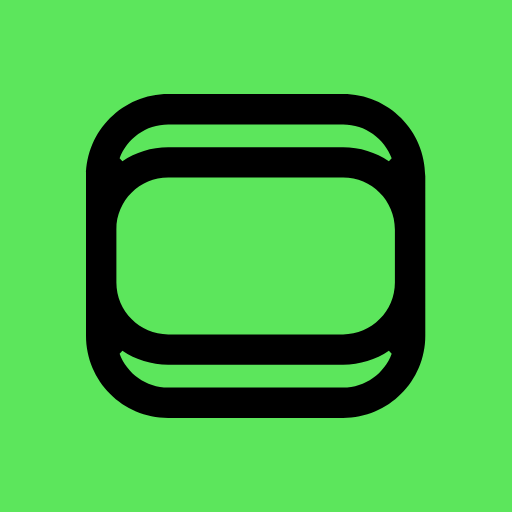
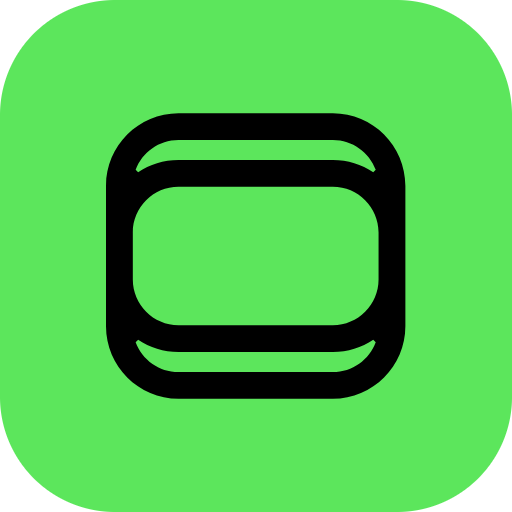
Fix Rive World load performance and polish download page
- Switch RiveCard from intersection-observer auto-load to click-to-play;
  iframes no longer fire on page open, eliminating simultaneous heavy requests
- Update subtitle copy: "Hover to play" → "Click to play"
- Download page: InstallButton always visible, scrolls to instructions when
  native prompt unavailable; remove Open in browser button
- Regenerate PWA icons with rounded corners for cleaner install dialog appearance

diff --git a/src/components/common/RiveCard.tsx b/src/components/common/RiveCard.tsx
@@ -1,12 +1,12 @@
 "use client"
 
-import { useState, useRef, useEffect } from "react"
+import { useState } from "react"
 import { useRouter } from "next/navigation"
 import Link from "next/link"
 import Image from "next/image"
 import { Play, ChevronUp, MessageSquare, Trash2 } from "lucide-react"
 
-type LoadState = "idle" | "preloading" | "loading" | "ready"
+type LoadState = "idle" | "loading" | "ready"
 
 type Props = {
   id:           string
@@ -26,31 +26,9 @@ export function RiveCard({ id, title, riveUrl, voteCount, commentCount, isOwner,
   const router = useRouter()
   const [loadState, setLoadState] = useState<LoadState>("idle")
   const [deleting, setDeleting] = useState(false)
-  const cardRef = useRef<HTMLDivElement>(null)
 
-  useEffect(() => {
-    const el = cardRef.current
-    if (!el) return
-
-    const observer = new IntersectionObserver(
-      ([entry]) => {
-        if (entry.isIntersecting) {
-          setLoadState((prev) => prev === "idle" ? "preloading" : prev)
-          observer.disconnect()
-        }
-      },
-      { rootMargin: "200px" }
-    )
-
-    observer.observe(el)
-    return () => observer.disconnect()
-  }, [])
-
-  function handleMouseEnter() {
-    setLoadState((prev) => {
-      if (prev === "ready") return prev
-      return "loading"
-    })
+  function handleClick() {
+    if (loadState === "idle") setLoadState("loading")
   }
 
   function handleIframeLoad() {
@@ -69,27 +47,26 @@ export function RiveCard({ id, title, riveUrl, voteCount, commentCount, isOwner,
     <div className="rounded-2xl border border-border overflow-hidden bg-white flex flex-col">
       {/* Iframe / placeholder */}
       <div
-        ref={cardRef}
         className="relative aspect-[4/3] bg-mist-grey cursor-crosshair"
-        onMouseEnter={handleMouseEnter}
+        onClick={handleClick}
       >
-        {/* Play icon — shown while idle or preloading */}
-        {(loadState === "idle" || loadState === "preloading") && (
+        {/* Play icon — shown while idle */}
+        {loadState === "idle" && (
           <div className="absolute inset-0 flex items-center justify-center">
-            <div className="flex h-12 w-12 items-center justify-center rounded-full bg-core-black/8 transition-transform group-hover:scale-110">
+            <div className="flex h-12 w-12 items-center justify-center rounded-full bg-core-black/8 transition-transform hover:scale-110">
               <Play size={18} className="text-core-black/30 translate-x-0.5" />
             </div>
           </div>
         )}
 
-        {/* Spinner — shown while loading (hovered but iframe not ready) */}
+        {/* Spinner — shown while iframe is loading */}
         {loadState === "loading" && (
           <div className="absolute inset-0 flex items-center justify-center">
             <div className="h-7 w-7 rounded-full border-2 border-core-black/10 border-t-core-black/40 animate-spin" />
           </div>
         )}
 
-        {/* Iframe — mounted once preloading starts, revealed on ready */}
+        {/* Iframe — mounted on click, revealed when ready */}
         {loadState !== "idle" && (
           <iframe
             src={riveUrl}

diff --git a/src/app/(main)/download/InstallButton.tsx b/src/app/(main)/download/InstallButton.tsx
@@ -12,6 +12,10 @@ export function InstallButton() {
   const [installed, setInstalled] = useState(false)
 
   useEffect(() => {
+    if (window.matchMedia("(display-mode: standalone)").matches) {
+      setInstalled(true)
+      return
+    }
     function onPrompt(e: Event) {
       e.preventDefault()
       setPrompt(e as BeforeInstallPromptEvent)
@@ -29,27 +33,28 @@ export function InstallButton() {
   }, [])
 
   async function handleInstall() {
-    if (!prompt) return
-    await prompt.prompt()
-    const { outcome } = await prompt.userChoice
-    if (outcome === "accepted") setInstalled(true)
-    setPrompt(null)
+    if (prompt) {
+      await prompt.prompt()
+      const { outcome } = await prompt.userChoice
+      if (outcome === "accepted") setInstalled(true)
+      setPrompt(null)
+    } else {
+      document.getElementById("how-to-install")?.scrollIntoView({ behavior: "smooth" })
+    }
   }
 
   if (installed) {
     return (
       <div className="inline-flex h-11 items-center gap-2 rounded-full bg-spring-green px-8 font-sans font-medium text-sm text-core-black">
-        Installed ✓
+        Already installed ✓
       </div>
     )
   }
 
-  if (!prompt) return null
-
   return (
     <button
       onClick={handleInstall}
-      className="inline-flex h-11 items-center px-8 rounded-full bg-spring-green text-core-black font-sans font-medium text-sm transition-colors hover:bg-spring-green/90"
+      className="inline-flex h-11 items-center px-8 rounded-full bg-spring-green text-core-black font-sans font-medium text-sm transition-transform hover:scale-105"
     >
       Install Frendr
     </button>

diff --git a/src/app/(main)/download/page.tsx b/src/app/(main)/download/page.tsx
@@ -90,15 +90,7 @@ export default function DownloadPage() {
             </p>
           </div>
 
-          <div className="flex flex-col sm:flex-row items-center gap-3">
-            <InstallButton />
-            <Link
-              href="/"
-              className="inline-flex h-11 items-center px-8 rounded-full border border-border font-sans font-medium text-sm text-foreground/60 transition-colors hover:border-foreground/30 hover:text-foreground"
-            >
-              Open in browser
-            </Link>
-          </div>
+          <InstallButton />
 
           <p className="font-sans text-xs text-foreground/40">
             Free forever · No app store required · Works on Mac, Windows, iOS, Android
@@ -125,7 +117,7 @@ export default function DownloadPage() {
         </section>
 
         {/* ── Platform instructions ── */}
-        <section className="flex flex-col gap-6">
+        <section id="how-to-install" className="flex flex-col gap-6">
           <div>
             <h2 className="font-sans font-bold text-xl text-core-black">How to install</h2>
             <p className="mt-1 font-sans text-sm text-foreground/50">Pick your device below.</p>

diff --git a/src/app/(main)/rive/page.tsx b/src/app/(main)/rive/page.tsx
@@ -34,7 +34,7 @@ export default async function RiveWorldPage() {
           <div className="text-center md:text-left">
             <h1 className="display-sm text-core-black">Rive World</h1>
             <p className="mt-2 font-sans text-sm text-core-black/60">
-              Interactive work from the community. Hover to play.
+              Interactive work from the community. Click to play.
             </p>
           </div>
           <ShareRiveButton />
